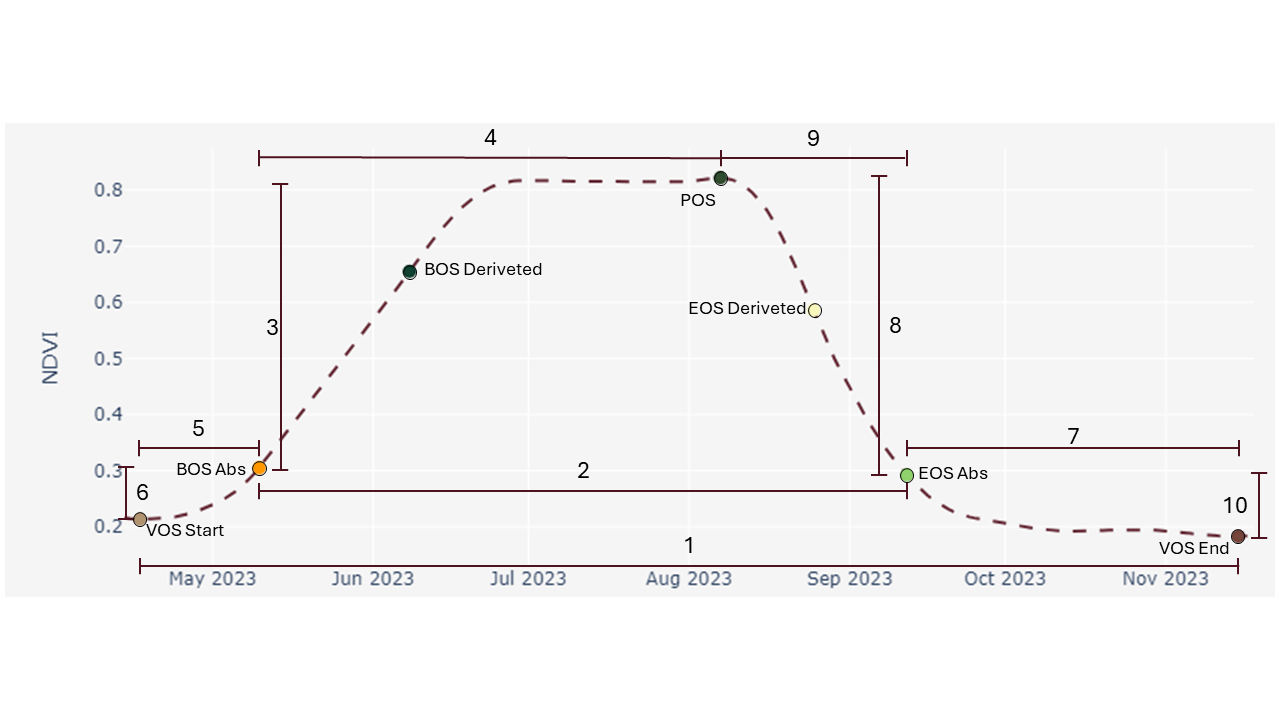
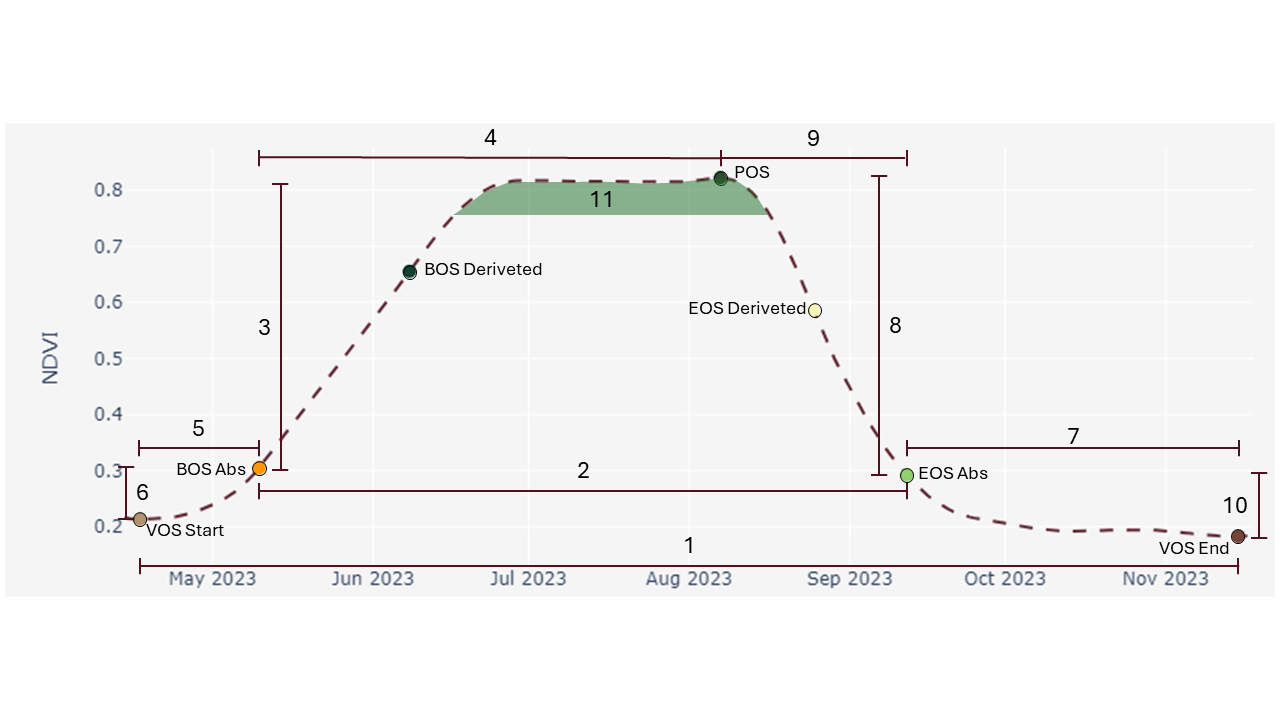
graphic_02

Changed region(s): [[0.3438, 0.2139, 0.5938, 0.3056], [0.1875, 0.4278, 0.2188, 0.4583]]

diff --git a/src/controllers/metrics_geometrics.py b/src/controllers/metrics_geometrics.py
@@ -26,7 +26,7 @@ class PhenologyMetrics:
         end_date = self.phenology_df.loc[self.phenology_df['Phenologic'] == 'eos_abs', 'Date'].values[0]
 
         # Filtrar as linhas entre as datas especificadas
-        mask = (self.ndvi_df['date'] >= pd.to_datetime(start_date)) & (self.ndvi_df['date'] <= pd.to_datetime(end_date))
+        mask = (self.ndvi_df['date'] >=  end_date) & (self.ndvi_df['date'] <= start_date)
         filtered_data = self.ndvi_df.loc[mask]
 
         # Calcular o valor do percentil na coluna NDVI
@@ -39,28 +39,34 @@ class PhenologyMetrics:
         # Assuming phenology_metrics is an instance of a class with these methods
         df_metrics = pd.DataFrame([
             {'Value': self.days_between('vos_start', 'vos_end'),
-            'Phenologic': 'Days between vos_end and vos_start'},
+            'Phenologic': 'Days between vos_end and vos_start'},#1
 
-            {'Value': self.days_between('bos_abs', 'eos_abs'),
-            'Phenologic': 'Days between bos_abs and eos_abs'},
+            {'Value': self.days_between(   'eos_abs', 'bos_abs'),
+            'Phenologic': 'Days between bos_abs and eos_abs'},#2
 
-            {'Value': self.vertical_difference('eos_abs', 'pos'),
-            'Phenologic': 'Vertical difference between eos_abs and pos'},
+            {'Value': self.vertical_difference('bos_abs', 'pos'),
+            'Phenologic': 'NDVI difference between bos_abs and pos'},#3
 
-            {'Value': self.horizontal_difference('pos', 'eos_abs'),
-            'Phenologic': 'Horizontal difference between pos and eos_abs'},
+            {'Value': self.horizontal_difference( 'pos', 'bos_abs'),
+            'Phenologic': 'Days difference between bos_abs and pos'},#4
 
-            {'Value': self.horizontal_difference('vos_start', 'eos_abs'),
-            'Phenologic': 'Horizontal difference between vos_start and eos_abs'},
-
-            {'Value': self.vertical_difference('vos_start', 'eos_abs'),
-            'Phenologic': 'Vertical difference between vos_start and eos_abs'},
-
-            {'Value': self.horizontal_difference('bos_abs', 'vos_end'),
-            'Phenologic': 'Horizontal difference between vos_end and bos_abs'},
+            {'Value': self.horizontal_difference('vos_start', 'bos_abs'),
+            'Phenologic': 'Days difference between vos_start and bos_abs'},#5
 
             {'Value': self.vertical_difference('vos_start', 'bos_abs'),
-            'Phenologic': 'Vertical difference between vos_start and bos_abs'},
+            'Phenologic': 'NDVI difference between vos_start and bos_abs'},#6
+
+            {'Value': self.horizontal_difference('eos_abs', 'vos_end'),
+            'Phenologic': 'Days difference between vos_end and eos_abs'},#7
+
+            {'Value': self.vertical_difference(  'eos_abs', 'pos'),
+            'Phenologic': 'NDVI difference between eos_abs and pos'},#8
+
+            {'Value': self.horizontal_difference( 'eos_abs', 'pos'),
+            'Phenologic': 'Days difference between eos_abs and pos'},#9
+
+            {'Value': self.vertical_difference('vos_end', 'eos_abs'),
+            'Phenologic': 'NDVI difference between eos_abs and vos_end'},#10
 
             {'Value': self.percentil_difference(),
             'Phenologic': 'Count 85% percentiles days between bos_abs and eos_abs'}

diff --git a/src/controllers/plotter_base.py b/src/controllers/plotter_base.py
@@ -62,7 +62,7 @@ class PhenologyPlotter:
 
         df = self.ndvi_df.dropna(subset=["id"])
 
-        fig.add_trace(go.Scatter(x=list(df['date']), y=list(df['ndvi']), mode='markers', name='NDVIs HLS', marker=dict(color='#642834', size=5)), row=1, col=1)
+        fig.add_trace(go.Scatter(x=list(df['date']), y=list(df['ndvi']), mode='markers', name='HLS Images', marker=dict(color='#642834', size=5)), row=1, col=1)
 
         fig.update_layout(
             height=800,

diff --git a/README.md b/README.md
@@ -94,6 +94,7 @@ This analysis is pivotal in understanding vegetation dynamics, aiding in ecologi
 - 8 - Vertical difference between eos_abs and pos
 - 9 - Horizontal difference between eos_abs and pos
 - 10 - Vertical difference between eos_abs and vos_end
+- 11 - Days over 85% percentiles NDVI between bos_abs and eos_abs
 
 
 
